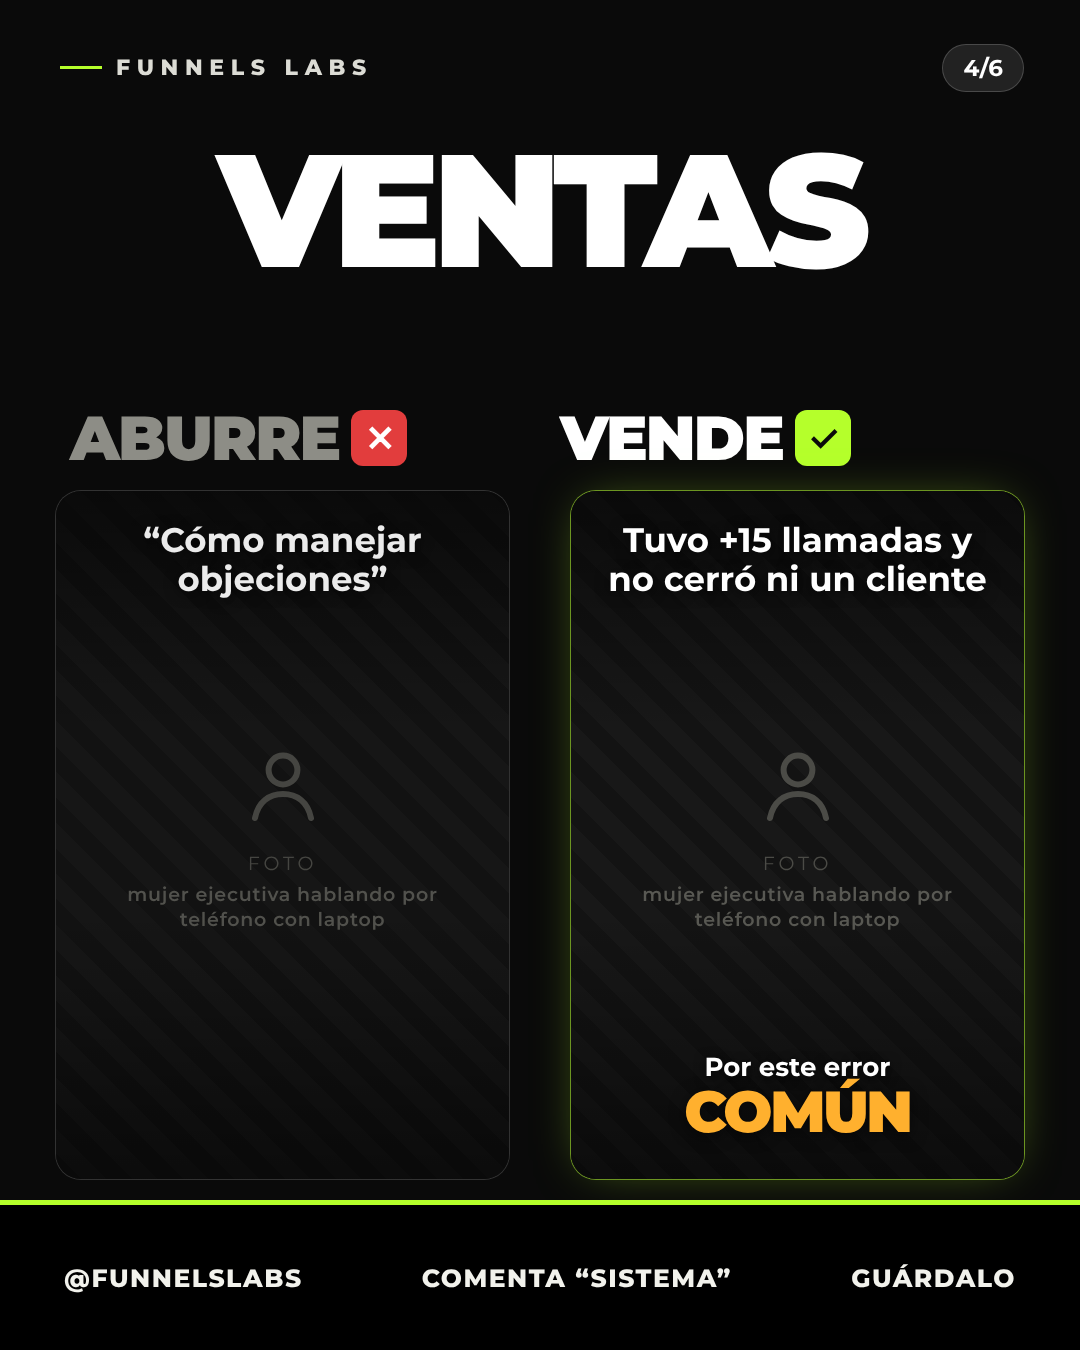
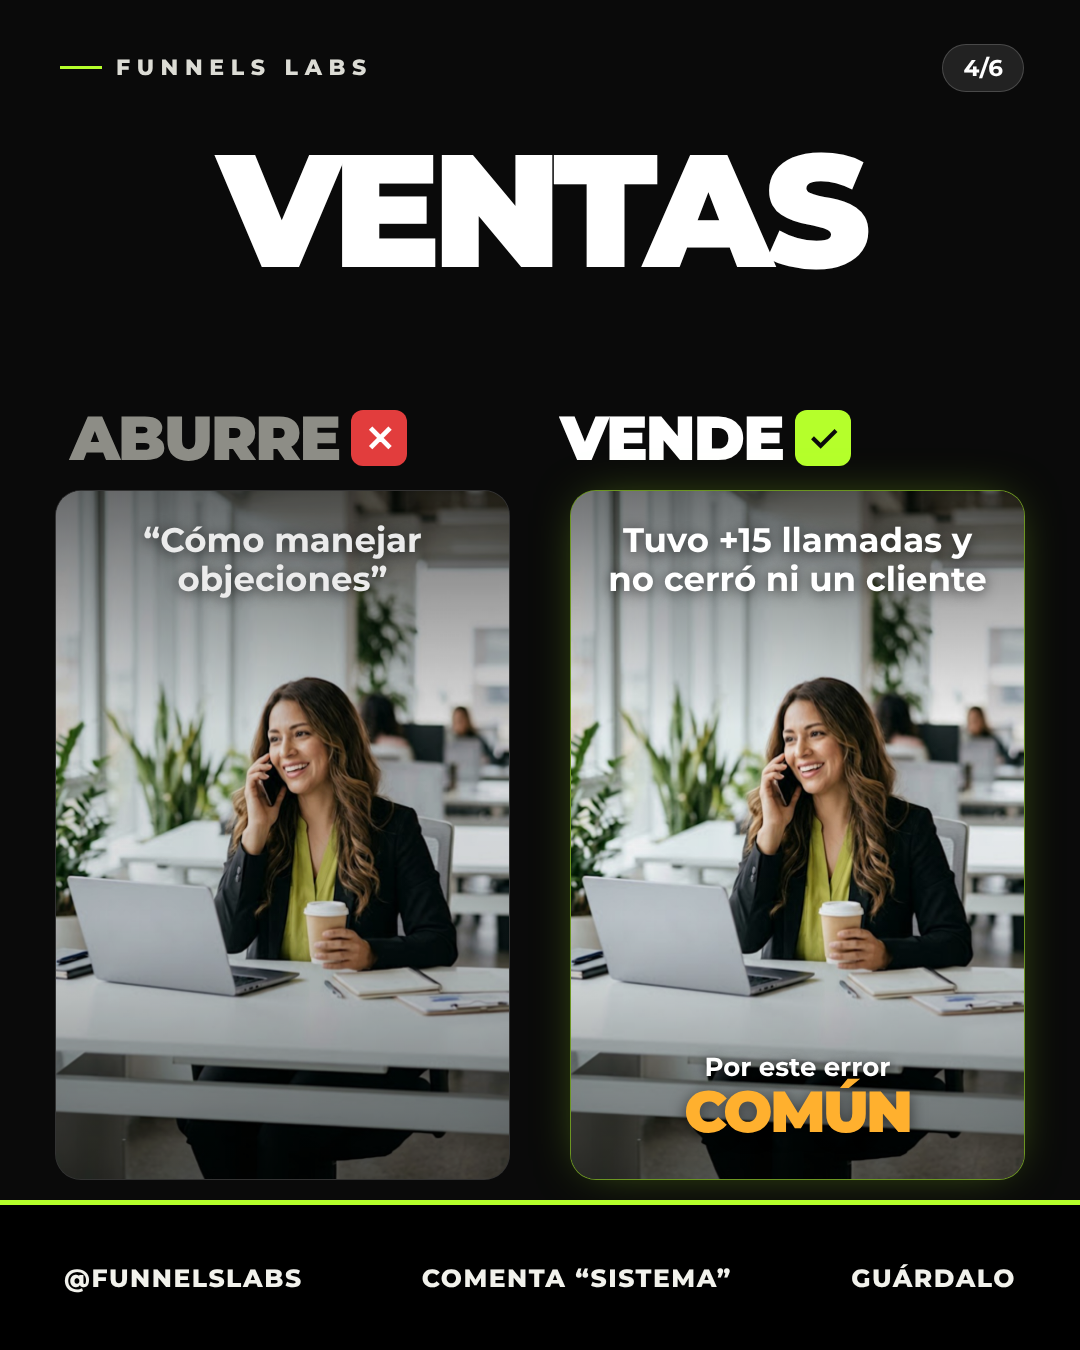
Carrusel 1 aburre/vende: avatares de Gemini en las tarjetas (ampliados con IA)
Claude-Session: https://claude.ai/code/session_018d4LXHkXweDJXxfN5x99dL

diff --git a/carruseles/aburre-vende-1/carrusel.html b/carruseles/aburre-vende-1/carrusel.html
@@ -36,15 +36,15 @@ body{background:#333;display:flex;flex-direction:column;align-items:center;gap:4
 <div class="half bot"><div class="big g" style="font-size:150px">Storytelling</div><div class="sub"><i></i><span>QUE VENDE</span><i></i></div></div><div class="bar"><span>@FUNNELSLABS</span><span>COMENTA “SISTEMA”</span><span>GUÁRDALO</span></div></section><section class="slide"><div class="n">2/6</div><div class="kick"><i></i>Funnels Labs</div>
 <div class="title" style="font-size:160px">FINANZAS</div>
 <div class="tag a">ABURRE <em>✕</em></div><div class="tag v">VENDE <em>✓</em></div>
-<div class="card aburre"><div class="ph empty"><svg viewBox="0 0 24 24" fill="none" stroke="currentColor" stroke-width="1.5" stroke-linecap="round"><circle cx="12" cy="8" r="3.6"/><path d="M5 20c.8-4 3.5-6 7-6s6.2 2 7 6"/></svg><span>FOTO<br><b>hombre de negocios maduro, traje, manos en los bolsillos, oficina</b></span></div><div class="shade"></div><div class="ct">3 Tips para mejorar tus finanzas</div></div><div class="card vende"><div class="ph empty"><svg viewBox="0 0 24 24" fill="none" stroke="currentColor" stroke-width="1.5" stroke-linecap="round"><circle cx="12" cy="8" r="3.6"/><path d="M5 20c.8-4 3.5-6 7-6s6.2 2 7 6"/></svg><span>FOTO<br><b>hombre de negocios maduro, traje, manos en los bolsillos, oficina</b></span></div><div class="shade"></div><div class="ct">Este cliente perdió el 40% de su dinero</div><div class="ct2">Por no saber</div><div class="hot" style="color:#ff4b3e">ESTO</div></div><div class="bar"><span>@FUNNELSLABS</span><span>COMENTA “SISTEMA”</span><span>GUÁRDALO</span></div></section><section class="slide"><div class="n">3/6</div><div class="kick"><i></i>Funnels Labs</div>
+<div class="card aburre"><div class="ph" style="background-image:url(img/foto-finanzas.jpg)"></div><div class="shade"></div><div class="ct">3 Tips para mejorar tus finanzas</div></div><div class="card vende"><div class="ph" style="background-image:url(img/foto-finanzas.jpg)"></div><div class="shade"></div><div class="ct">Este cliente perdió el 40% de su dinero</div><div class="ct2">Por no saber</div><div class="hot" style="color:#ff4b3e">ESTO</div></div><div class="bar"><span>@FUNNELSLABS</span><span>COMENTA “SISTEMA”</span><span>GUÁRDALO</span></div></section><section class="slide"><div class="n">3/6</div><div class="kick"><i></i>Funnels Labs</div>
 <div class="title" style="font-size:160px">MÉDICOS</div>
 <div class="tag a">ABURRE <em>✕</em></div><div class="tag v">VENDE <em>✓</em></div>
-<div class="card aburre"><div class="ph empty"><svg viewBox="0 0 24 24" fill="none" stroke="currentColor" stroke-width="1.5" stroke-linecap="round"><circle cx="12" cy="8" r="3.6"/><path d="M5 20c.8-4 3.5-6 7-6s6.2 2 7 6"/></svg><span>FOTO<br><b>médico con bata azul y brazos cruzados, equipo detrás</b></span></div><div class="shade"></div><div class="ct">Ven a hacerte tu chequeo anual</div></div><div class="card vende"><div class="ph empty"><svg viewBox="0 0 24 24" fill="none" stroke="currentColor" stroke-width="1.5" stroke-linecap="round"><circle cx="12" cy="8" r="3.6"/><path d="M5 20c.8-4 3.5-6 7-6s6.2 2 7 6"/></svg><span>FOTO<br><b>médico con bata azul y brazos cruzados, equipo detrás</b></span></div><div class="shade"></div><div class="ct">Llegó al hospital por una revisión… Pero terminó en urgencias</div><div class="ct2">Por estos 3 simples</div><div class="hot" style="color:#b5ff2b">“SÍNTOMAS”</div></div><div class="bar"><span>@FUNNELSLABS</span><span>COMENTA “SISTEMA”</span><span>GUÁRDALO</span></div></section><section class="slide"><div class="n">4/6</div><div class="kick"><i></i>Funnels Labs</div>
+<div class="card aburre"><div class="ph" style="background-image:url(img/foto-medicos.jpg)"></div><div class="shade"></div><div class="ct">Ven a hacerte tu chequeo anual</div></div><div class="card vende"><div class="ph" style="background-image:url(img/foto-medicos.jpg)"></div><div class="shade"></div><div class="ct">Llegó al hospital por una revisión… Pero terminó en urgencias</div><div class="ct2">Por estos 3 simples</div><div class="hot" style="color:#b5ff2b">“SÍNTOMAS”</div></div><div class="bar"><span>@FUNNELSLABS</span><span>COMENTA “SISTEMA”</span><span>GUÁRDALO</span></div></section><section class="slide"><div class="n">4/6</div><div class="kick"><i></i>Funnels Labs</div>
 <div class="title" style="font-size:160px">VENTAS</div>
 <div class="tag a">ABURRE <em>✕</em></div><div class="tag v">VENDE <em>✓</em></div>
-<div class="card aburre"><div class="ph empty"><svg viewBox="0 0 24 24" fill="none" stroke="currentColor" stroke-width="1.5" stroke-linecap="round"><circle cx="12" cy="8" r="3.6"/><path d="M5 20c.8-4 3.5-6 7-6s6.2 2 7 6"/></svg><span>FOTO<br><b>mujer ejecutiva hablando por teléfono con laptop</b></span></div><div class="shade"></div><div class="ct">“Cómo manejar objeciones”</div></div><div class="card vende"><div class="ph empty"><svg viewBox="0 0 24 24" fill="none" stroke="currentColor" stroke-width="1.5" stroke-linecap="round"><circle cx="12" cy="8" r="3.6"/><path d="M5 20c.8-4 3.5-6 7-6s6.2 2 7 6"/></svg><span>FOTO<br><b>mujer ejecutiva hablando por teléfono con laptop</b></span></div><div class="shade"></div><div class="ct">Tuvo +15 llamadas y no cerró ni un cliente</div><div class="ct2">Por este error</div><div class="hot" style="color:#ffb02e">COMÚN</div></div><div class="bar"><span>@FUNNELSLABS</span><span>COMENTA “SISTEMA”</span><span>GUÁRDALO</span></div></section><section class="slide"><div class="n">5/6</div><div class="kick"><i></i>Funnels Labs</div>
+<div class="card aburre"><div class="ph" style="background-image:url(img/foto-ventas.jpg)"></div><div class="shade"></div><div class="ct">“Cómo manejar objeciones”</div></div><div class="card vende"><div class="ph" style="background-image:url(img/foto-ventas.jpg)"></div><div class="shade"></div><div class="ct">Tuvo +15 llamadas y no cerró ni un cliente</div><div class="ct2">Por este error</div><div class="hot" style="color:#ffb02e">COMÚN</div></div><div class="bar"><span>@FUNNELSLABS</span><span>COMENTA “SISTEMA”</span><span>GUÁRDALO</span></div></section><section class="slide"><div class="n">5/6</div><div class="kick"><i></i>Funnels Labs</div>
 <div class="title" style="font-size:160px">ABOGADOS</div>
 <div class="tag a">ABURRE <em>✕</em></div><div class="tag v">VENDE <em>✓</em></div>
-<div class="card aburre"><div class="ph empty"><svg viewBox="0 0 24 24" fill="none" stroke="currentColor" stroke-width="1.5" stroke-linecap="round"><circle cx="12" cy="8" r="3.6"/><path d="M5 20c.8-4 3.5-6 7-6s6.2 2 7 6"/></svg><span>FOTO<br><b>abogado leyendo un contrato, balanza de justicia</b></span></div><div class="shade"></div><div class="ct">“Asesoría legal disponible”</div></div><div class="card vende"><div class="ph empty"><svg viewBox="0 0 24 24" fill="none" stroke="currentColor" stroke-width="1.5" stroke-linecap="round"><circle cx="12" cy="8" r="3.6"/><path d="M5 20c.8-4 3.5-6 7-6s6.2 2 7 6"/></svg><span>FOTO<br><b>abogado leyendo un contrato, balanza de justicia</b></span></div><div class="shade"></div><div class="ct">Facturaba $2 millones/año y su socio le robó todo</div><div class="ct2">Por firmar sin LEER esta</div><div class="hot" style="color:#ff4b3e">CLÁUSULA</div></div><div class="bar"><span>@FUNNELSLABS</span><span>COMENTA “SISTEMA”</span><span>GUÁRDALO</span></div></section><section class="slide cta"><img class="bleed" src="img/selfie-4x5.jpg"><div class="shadeall"></div><div class="n">6/6</div>
+<div class="card aburre"><div class="ph" style="background-image:url(img/foto-abogados.jpg)"></div><div class="shade"></div><div class="ct">“Asesoría legal disponible”</div></div><div class="card vende"><div class="ph" style="background-image:url(img/foto-abogados.jpg)"></div><div class="shade"></div><div class="ct">Facturaba $2 millones/año y su socio le robó todo</div><div class="ct2">Por firmar sin LEER esta</div><div class="hot" style="color:#ff4b3e">CLÁUSULA</div></div><div class="bar"><span>@FUNNELSLABS</span><span>COMENTA “SISTEMA”</span><span>GUÁRDALO</span></div></section><section class="slide cta"><img class="bleed" src="img/selfie-4x5.jpg"><div class="shadeall"></div><div class="n">6/6</div>
 <div class="c1">PERO RECUERDA</div><div class="c2">COMENTA<br><span>“SISTEMA”</span></div><div class="c3">SI QUIERES</div>
 <div class="c4"><b>CONSEGUIR MÁS</b><span>CLIENTES</span><em>sin perseguirlos, con IA</em></div><div class="bar"><span>@FUNNELSLABS</span><span>COMENTA “SISTEMA”</span><span>GUÁRDALO</span></div></section></body></html>
